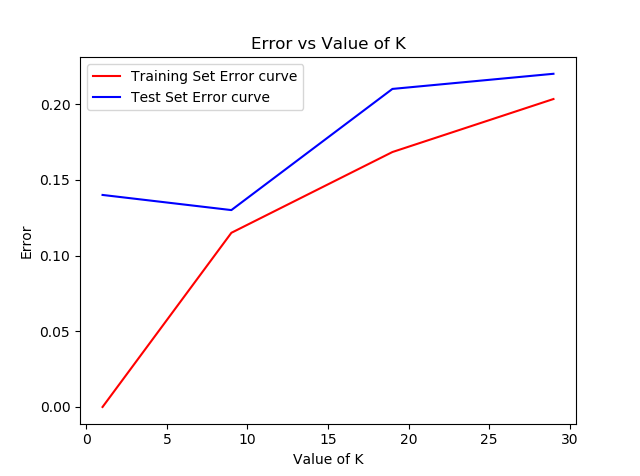
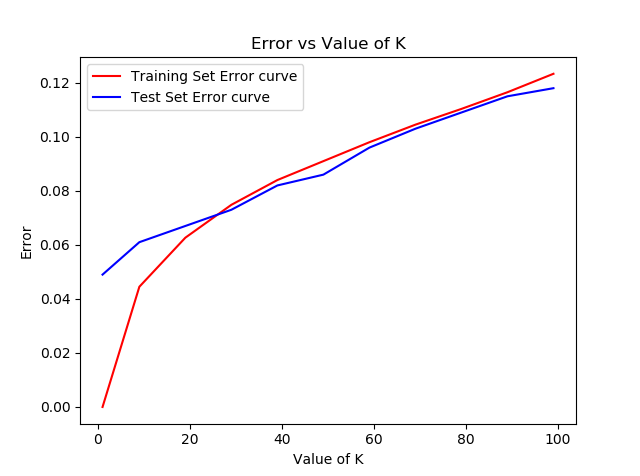
Assignment 2 - KNN Classifier Final Graph

diff --git a/Assignment 2 - KNN Classifier/README.md b/Assignment 2 - KNN Classifier/README.md
@@ -6,3 +6,25 @@ Steps to run:
 1. CD into the folder where files are present.
 2. Make sure the dataset files "mnist_test.csv" and "mnist_train.csv" are present in this folder.
 3. Run command "python knn.py" for running KNN algorithm with error vs value of K learning curve.
+
+K =  1  Training set error:  [ 0.]  Test set error:  [ 0.049]
+
+K =  9  Training set error:  [ 0.0445]  Test set error:  [ 0.061]
+
+K =  19  Training set error:  [ 0.06266667]  Test set error:  [ 0.067]
+
+K =  29  Training set error:  [ 0.07483333]  Test set error:  [ 0.073]
+
+K =  39  Training set error:  [ 0.084]  Test set error:  [ 0.082]
+
+K =  49  Training set error:  [ 0.091]  Test set error:  [ 0.086]
+
+K =  59  Training set error:  [ 0.098]  Test set error:  [ 0.096]
+
+K =  69  Training set error:  [ 0.1045]  Test set error:  [ 0.103]
+
+K =  79  Training set error:  [ 0.11033333]  Test set error:  [ 0.109]
+
+K =  89  Training set error:  [ 0.1165]  Test set error:  [ 0.115]
+
+K =  99  Training set error:  [ 0.12333333]  Test set error:  [ 0.118]
